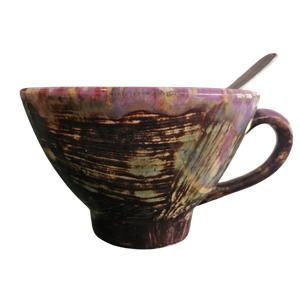
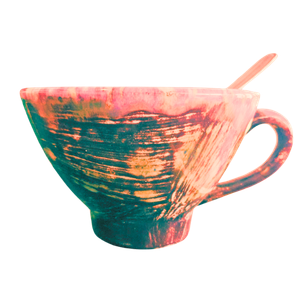
Add files via upload

diff --git a/en.html b/en.html
@@ -29,7 +29,7 @@ a{color:inherit}
 @media (max-width:700px){.nav{display:none !important}.burger{display:inline-flex}}
 .lang{display:inline-flex;align-items:center;min-height:48px;padding:0 4px;text-decoration:none;font-weight:700;font-size:15px;letter-spacing:.08em}
 .lang:hover{color:#FF5E50}
-@keyframes bob{0%,100%{transform:translateY(0) rotate(-2deg)}50%{transform:translateY(-12px) rotate(2deg)}}
+@keyframes bob{0%,100%{transform:translateY(0) rotate(-14deg)}50%{transform:translateY(-12px) rotate(-8deg)}}
 .bob{animation:bob 6s ease-in-out infinite}
 .obj{filter:drop-shadow(0 10px 14px rgba(0,0,0,.28))}
 a:focus-visible{outline:3px solid #E0AD2B;outline-offset:3px}

diff --git a/index.html b/index.html
@@ -29,7 +29,7 @@ a{color:inherit}
 @media (max-width:700px){.nav{display:none !important}.burger{display:inline-flex}}
 .lang{display:inline-flex;align-items:center;min-height:48px;padding:0 4px;text-decoration:none;font-weight:700;font-size:15px;letter-spacing:.08em}
 .lang:hover{color:#FF5E50}
-@keyframes bob{0%,100%{transform:translateY(0) rotate(-2deg)}50%{transform:translateY(-12px) rotate(2deg)}}
+@keyframes bob{0%,100%{transform:translateY(0) rotate(-14deg)}50%{transform:translateY(-12px) rotate(-8deg)}}
 .bob{animation:bob 6s ease-in-out infinite}
 .obj{filter:drop-shadow(0 10px 14px rgba(0,0,0,.28))}
 a:focus-visible{outline:3px solid #E0AD2B;outline-offset:3px}
